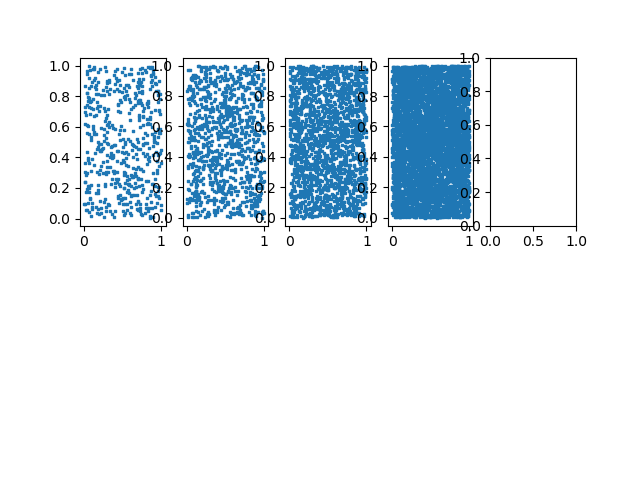
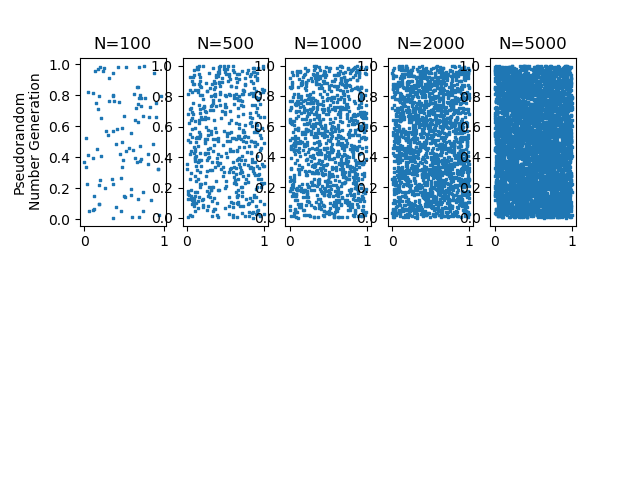
Pseudo RNG top row completed

Changed region(s): [[0.0, 0.0625, 0.9062, 0.5312], [0.125, 0.5, 0.1562, 0.5312]]

diff --git a/analysis/RNGplotting.py b/analysis/RNGplotting.py
@@ -3,37 +3,45 @@ from random import random
 import matplotlib.pyplot as plt
 from matplotlib import gridspec
 
-prA = [(random(), random()) for _ in range(10)]
+plt.subplot(251)
+prA = [(random(), random()) for _ in range(100)]
 x_A = [x[0] for x in prA]
 y_A = [x[1] for x in prA]
 plt.scatter(x_A, y_A, s=1, marker=",")
-plt.subplot(251)
+plt.ylabel("Pseudorandom\nNumber Generation")
+plt.title("N=100")
 
-#plt.show(prA_plot)
 
+plt.subplot(252)
 prB = [(random(), random()) for _ in range(500)]
 x_B = [x[0] for x in prB]
 y_B = [x[1] for x in prB]
 plt.scatter(x_B, y_B, s=1, marker=",")
-plt.subplot(252)
+plt.title("N=500")
 
+
+
+plt.subplot(253)
 prC = [(random(), random()) for _ in range(1000)]
 x_C = [x[0] for x in prC]
 y_C = [x[1] for x in prC]
 plt.scatter(x_C, y_C, s=1, marker=",")
-plt.subplot(253)
+plt.title("N=1000")
 
+plt.subplot(254)
 prD = [(random(), random()) for _ in range(2000)]
 x_D = [x[0] for x in prD]
 y_D = [x[1] for x in prD]
 plt.scatter(x_D, y_D, s=1, marker=",")
-plt.subplot(254)
+plt.title("N=2000")
 
+plt.subplot(255)
 prE = [(random(), random()) for _ in range(5000)]
 x_E = [x[0] for x in prE]
 y_E = [x[1] for x in prE]
 plt.scatter(x_E, y_E, s=1, marker=",")
-plt.subplot(255)
+plt.title("N=5000")
+
 
 plt.savefig('fig.png')
 plt.show()
